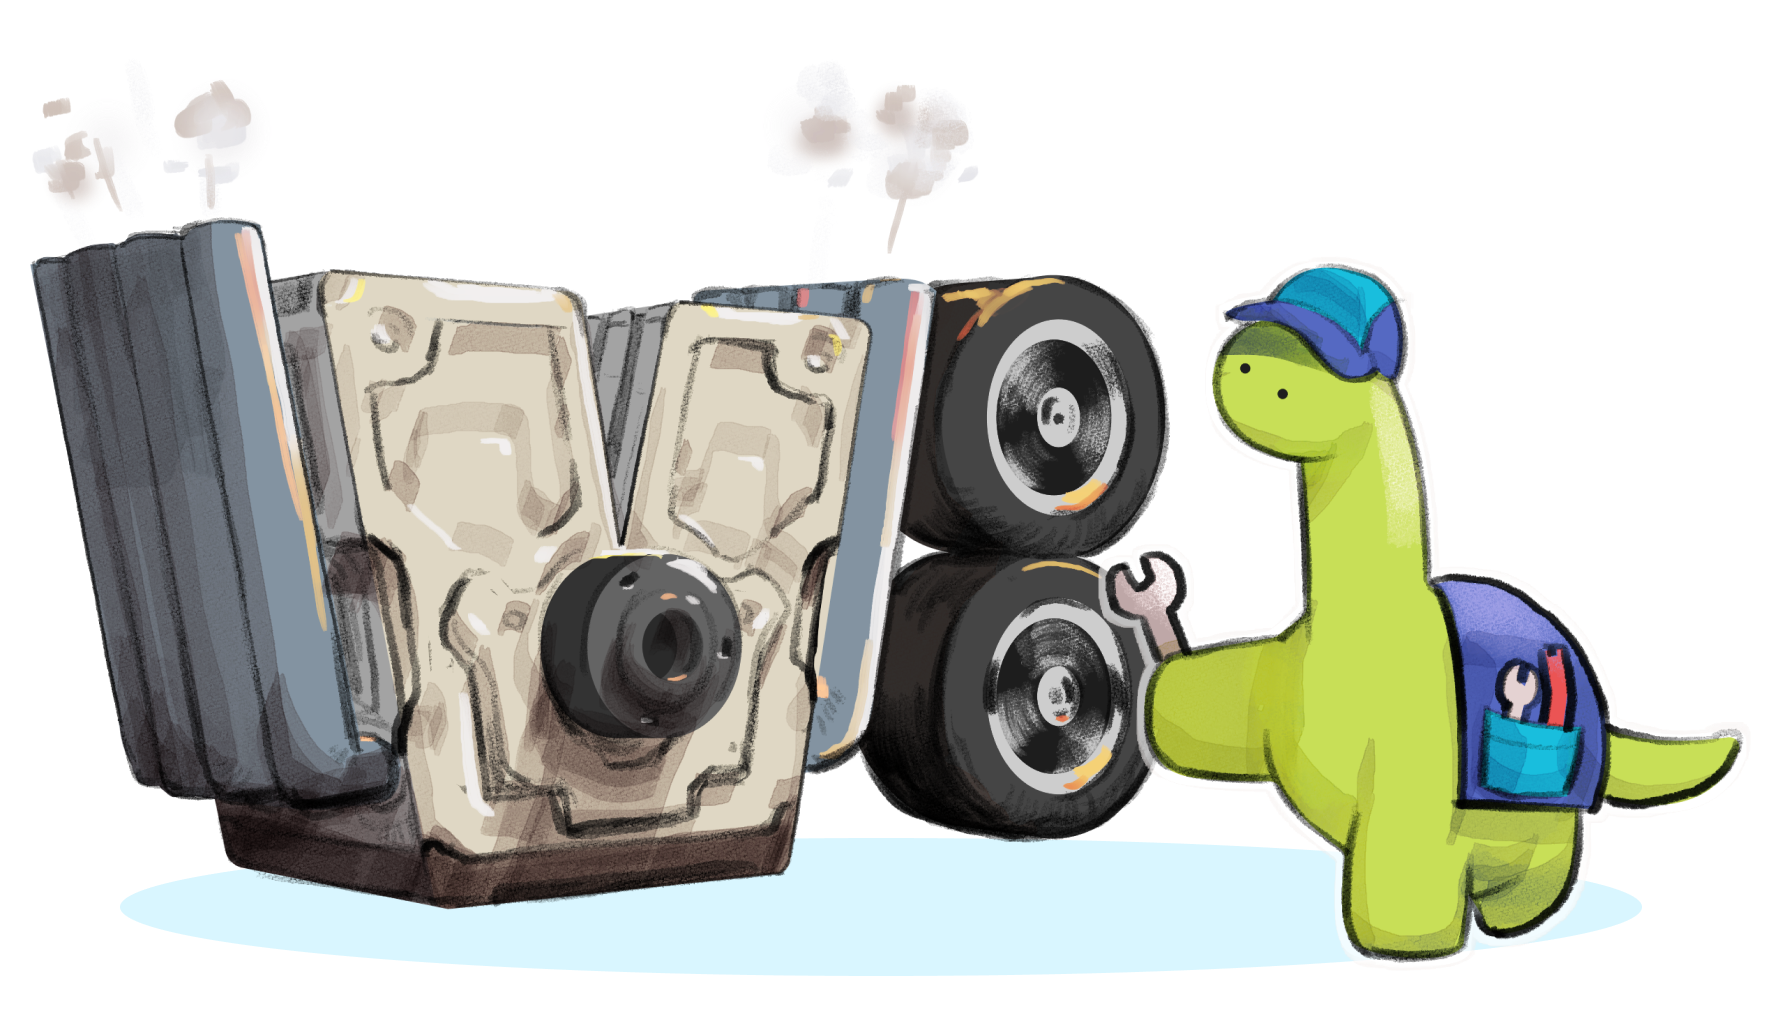
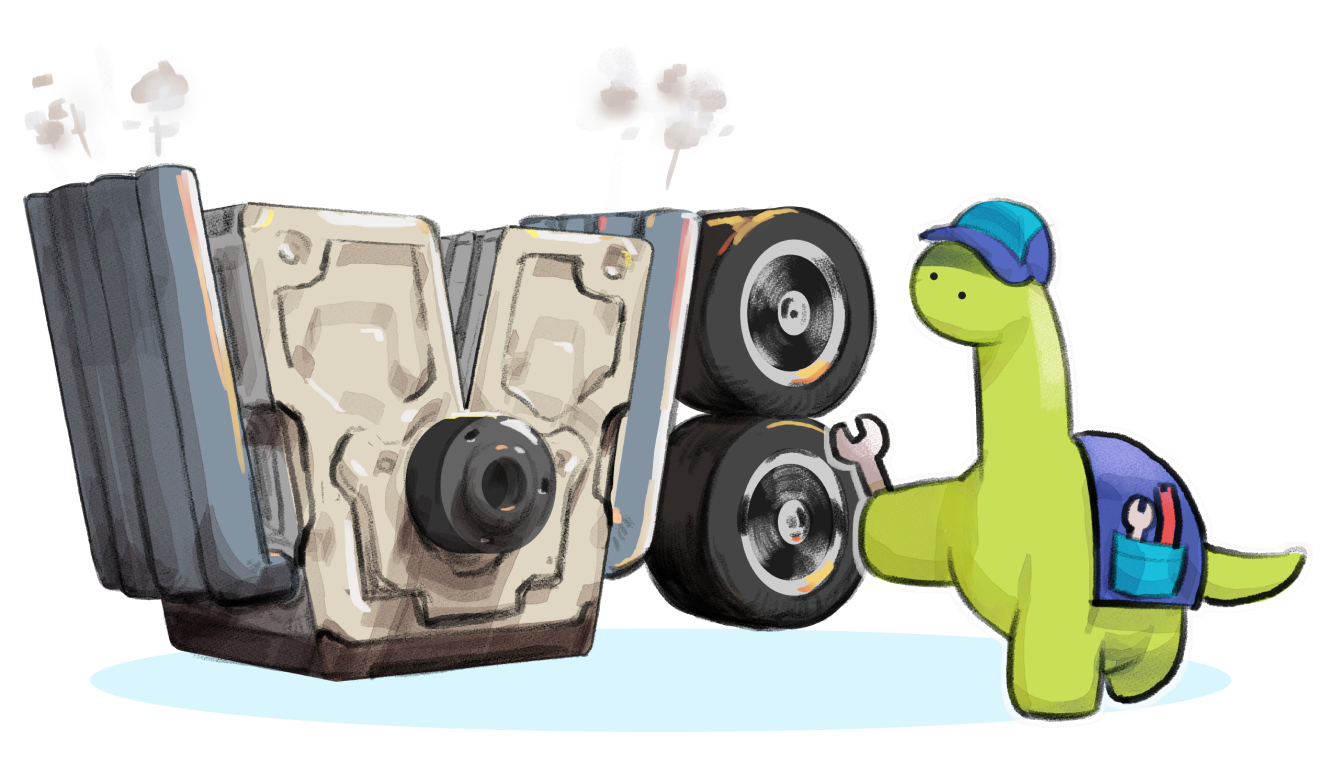
fix cover bg and reduce image size

diff --git a/routes/index.tsx b/routes/index.tsx
@@ -45,17 +45,17 @@ export default function Home({ data }: PageProps<Data>) {
         <div
           class={tw`px-8 pt-12 pb-28 lg:(px-36 pt-24 pb-40) ${
             css({
-              background: 'url("/images/lp/cover.png") left / cover no-repeat',
+              background: 'url("/images/lp/cover.png") left / cover no-repeat, linear-gradient(90deg, #002585, #209DEE)',
             })
           } md:(${
             css({
               background:
-                'url("/images/lp/cover@lg.png") center / cover no-repeat',
+                'url("/images/lp/cover@lg.png") center / cover no-repeat, linear-gradient(90deg, #002585, #209DEE)',
             })
           }) xl:(${
             css({
               background:
-                'url("/images/lp/cover@xl.png") center / cover no-repeat',
+                'url("/images/lp/cover@xl.png") center / cover no-repeat, linear-gradient(90deg, #002585, #209DEE)',
             })
           })`}
         >
